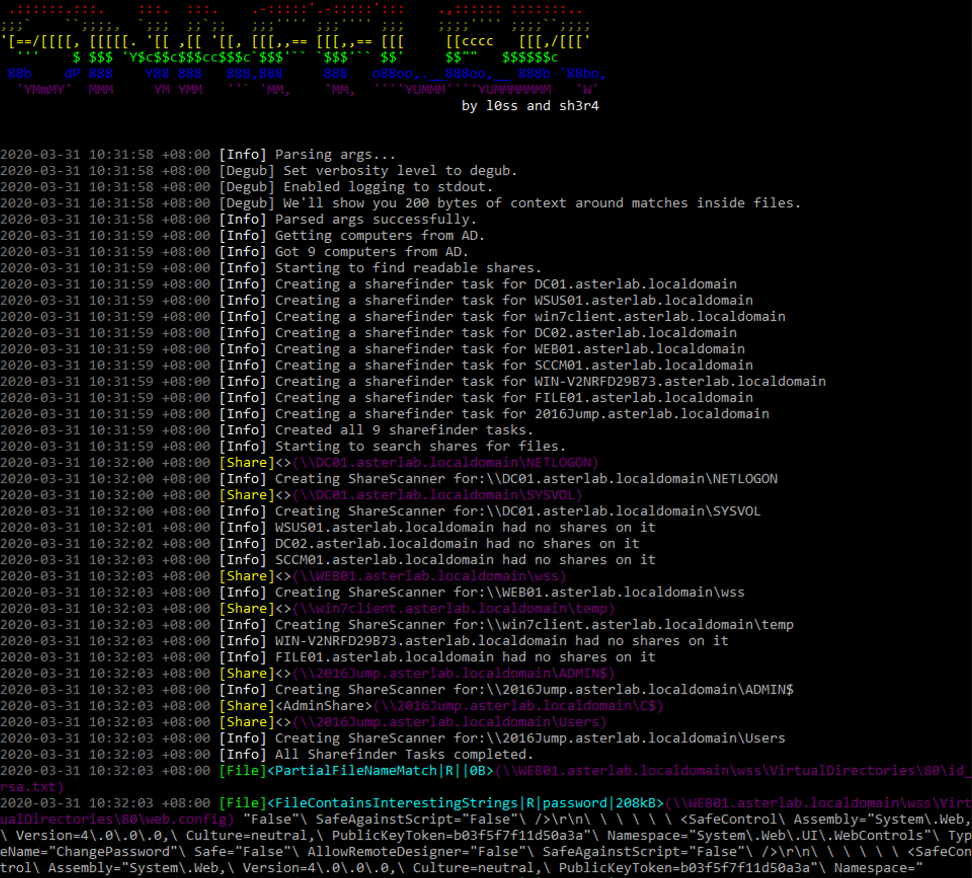
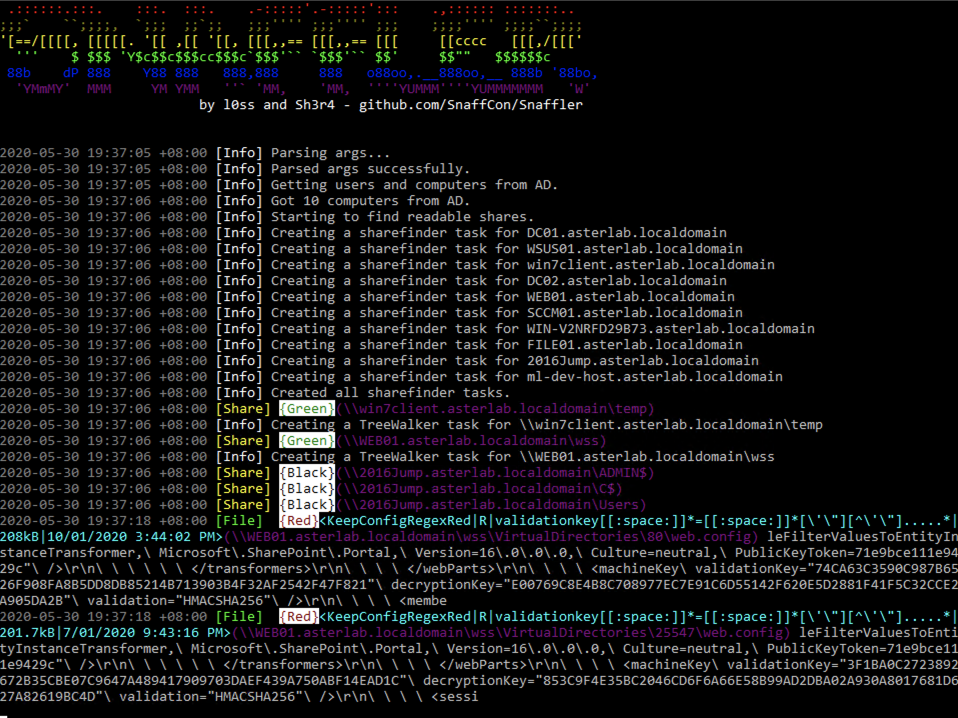
docco update

diff --git a/README.md b/README.md
@@ -38,19 +38,17 @@ HOWEVER... if you add the correct incantations, it will enable the aforementione
 
 The key incantations are: 
 
-`-o`   Enables outputting results to a file. You probably want this if you're not using -s. e.g. `-o C:\users\thing\snaffler.log`
+`-o`   Enables outputting results to a file. You probably want this if you're not using `-s`. e.g. `-o C:\users\thing\snaffler.log`
 
-`-s`   Enables outputting results to stdout as soon as they're found. You probably want this if you're not using -o.
+`-s`   Enables outputting results to stdout as soon as they're found. You probably want this if you're not using `-o`.
 
 `-v`   Controls verbosity level, options are Trace (most verbose), Debug (less verbose), Info (less verbose still, default), and Data (results only). e.g `-v debug` 
 
 `-m`   Enables and assigns an output dir for snaffler to automatically take a copy of (or Snaffle... if you will) any found files that it likes.
 
-`-l`   Maximum size of files to Snaffle. Defaults to 10MB.
+`-l`   Maximum size of files (in bytes) to Snaffle. Defaults to 10000000, which is *about* 10MB.
 
 `-i`   Disables computer and share discovery, requires a path to a directory in which to perform file discovery.
-
-`-t`   Maximum number of threads. Default 30.
 
 `-d`   Domain to search for computers to search for shares on to search for files in. Easy.
 
@@ -94,8 +92,6 @@ RuleName = "DiscardFilepathContains" # This can be whatever you want. We've been
                                      # MatchType" naming scheme, but you can call it "Stinky" if you want. ¯\_(ツ)_/¯
 MatchAction = "Discard" # What to do with things that match the rule. In this case, we want to discard anything that matches this rule.
                         # Valid options include: Snaffle (keep), Discard, Relay (example of this below), and CheckForKeys (example below).
-RuleOrder = 0 # Within each EnumerationScope we tell Snaffler what order to run the rules in. 
-              # You generally want to put simpler rules first, followed by complex multi-step ones.
 MatchLocation = "FilePath" # What part of the file/dir/share to look at to check for a match. In this case we're looking at the whole path.
                            # Valid options include: ShareName, FilePath, FileName, FileExtension, FileContentAsString, FileContentAsBytes,
                            # although obviously not all of these will apply in all EnumerationScopes.
@@ -112,7 +108,6 @@ In this case I'm mostly throwing away fonts, images, CSS, etc.
 EnumerationScope = "FileEnumeration" # We're looking at the actual files, not the shares or dirs or whatever.
 RuleName = "DiscardExtExact" # just a name
 MatchAction = "Discard" # We're discarding these
-RuleOrder = 0 # starts at 0 again because we're in a different EnumerationScope
 MatchLocation = "FileExtension" # This time we're only looking at the file extension part of the file's name.
 WordListType = "Exact" # and we only want exact matches. 
 WordList = [".bmp", ".eps", ".gif", ".ico", ".jfi", ".jfif", ".jif", ".jpe", ".jpeg", ".jpg", ".png", ".psd", ".svg", ".tif", ".tiff", ".webp", ".xcf", ".ttf", ".otf", ".lock", ".css", ".less"] # list of file extensions.
@@ -125,7 +120,6 @@ EnumerationScope = "FileEnumeration" # Still looking at files
 RuleName = "KeepExtExactBlack" # Just a name
 MatchAction = "Snaffle" # This time we are 'snaffling' these. This usually just means send it to the UI, 
                        # but if you turn on the appropriate option it will also grtab a copy.
-RuleOrder = 1 # We're doing this AFTER we throw away the stuff we don't want in the previous rule.
 MatchLocation = "FileExtension" # We're looking at file extensions again
 WordListType = "Exact" # With Exact Matches
 WordList = [".kdbx", ".kdb", ".ppk", ".vmdk", ".vhdx", ".ova", ".ovf", ".psafe3", ".cscfg", ".kwallet", ".tblk", ".ovpn", ".mdf", ".sdf", ".sqldump"] # and a bunch of fun file extensions.
@@ -138,7 +132,6 @@ This one is basically the same, but we're looking at the whole file name. Simple
 EnumerationScope = "FileEnumeration"
 RuleName = "KeepFilenameExactBlack"
 MatchAction = "Snaffle"
-RuleOrder = 2
 MatchLocation = "FileName"
 WordListType = "Exact"
 WordList = ["id_rsa", "id_dsa", "NTDS.DIT", "shadow", "pwd.db", "passwd"]
@@ -150,7 +143,6 @@ This one is a bit nifty, check this out...
 [[Classifiers]]
 EnumerationScope = "FileEnumeration" # we're looking for files...
 RuleName = "KeepCertContainsPrivKeyRed" 
-RuleOrder = 6
 MatchLocation = "FileExtension" # specifically, ones with certain file extensions...
 WordListType = "Exact"
 WordList = [".der", ".pfx"] # specifically these ones...
@@ -167,7 +159,6 @@ You can chain these together as much as you like, although I imagine you'll star
 [[Classifiers]]
 EnumerationScope = "FileEnumeration" # this one looks at files...
 RuleName = "ConfigGrepExtExact"
-RuleOrder = 10
 MatchLocation = "FileExtension" # specifically the extensions...
 WordListType = "Exact"
 WordList = [".yaml", ".xml", ".json", ".config", ".ini", ".inf", ".cnf", ".conf"] # these ones.
@@ -177,8 +168,7 @@ RelayTarget = "KeepConfigGrepContainsRed" # To the rule with this RuleName!
 [[Classifiers]]
 RuleName = "KeepConfigGrepContainsRed" # which is this one! This is why following a naming convention really helps.
 EnumerationScope = "ContentsEnumeration" # this one looks at file content!
-MatchAction = "Snaffle" # it keeps matches
-RuleOrder = 0
+MatchAction = "Snaffle" # it keeps files that match
 MatchLocation = "FileContentAsString" # it's looking at the contents as a string (rather than a byte array)
 WordListType = "Contains" # it's using simple matching
 WordList = ["password=", " connectionString=\"", "sqlConnectionString=\"", "validationKey=", "decryptionKey=", "NVRAM config last updated"]
@@ -196,7 +186,7 @@ Next step on the roadmap is a bunch of extra concurrency magic to make everythin
 We're also going to: 
  - Add parsing of MS Word and Excel documents.
  - Add parsing of archive files, ideally treating them as just another dir to walk through looking for goodies.
- - Add even more things we should be searching for inside files, like db connection strings from various languages. **More words for the wordlists! `string[]`s for the `string` throne!**
+ - Keep refining the rules and regexen. **More words for the wordlists! `string[]`s for the `string` throne!**
 
 ![A dumb joke about wordlists.](./WORDLISTS.png)
 
@@ -207,14 +197,14 @@ Dwight's GitHub profile is like that amazing back aisle at a hardware store that
 
 While no code was taken (mainly cos it's Ruby lol) we did steal a bunch of nifty ideas from `plunder2` (http://joshstone.us/plunder2/)
 
-Wordlists were also curated from those found in some other similar-ish tools like trufflehog, gitrobber, and graudit.
+Wordlists were also curated from those found in some other similar-ish tools like trufflehog, shhgit, gitrobber, and graudit.
 
 
 ## Is it OPSEC safe? (Whatever the hell that means)
 
 Pffft, no. It's noisy as fuck.
 
-Look let's put it this way... If it's the kind of environment where you'd feel confident running something like CrackMapExec, then uhhh, yeah man... It's real stealthy.
+Look let's put it this way... If it's the kind of environment where you'd feel confident running BloodHound in non-stealth mode, then uhhh, yeah man... It's real stealthy.
 
 
 ## How can I help or get help?
